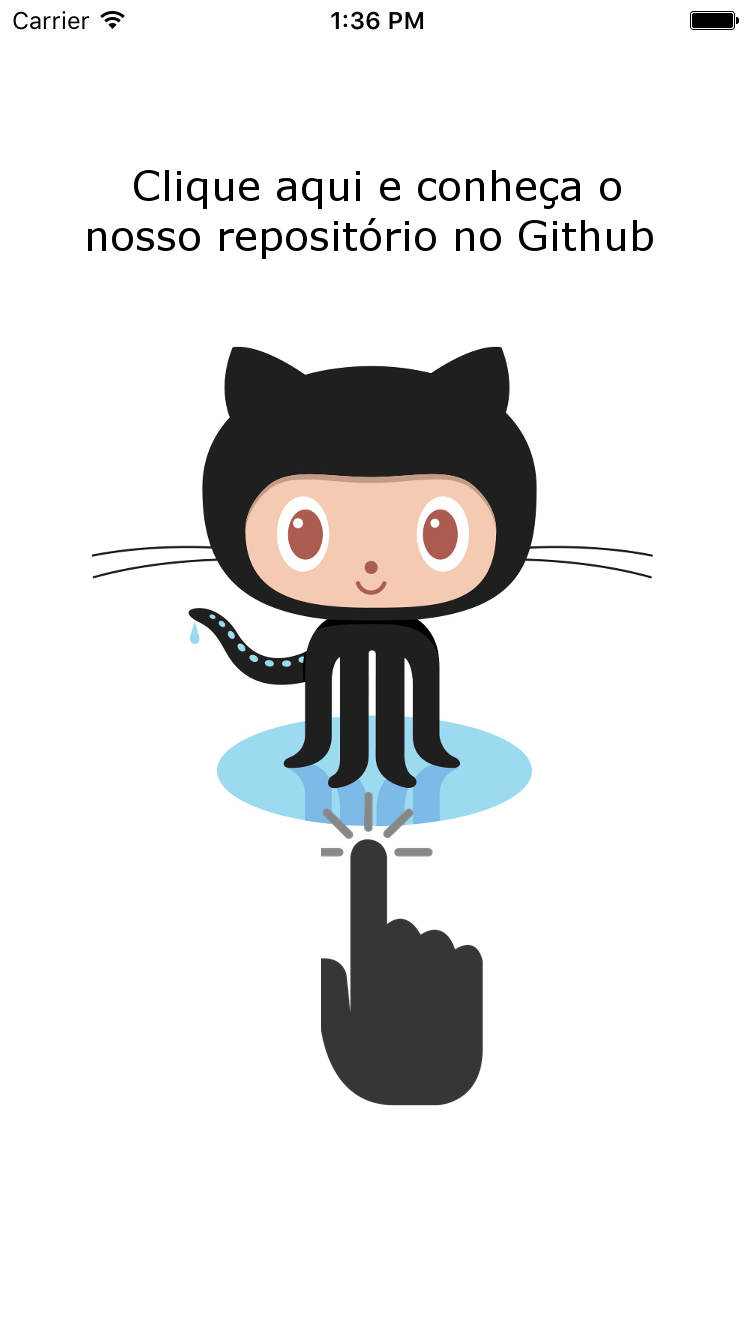
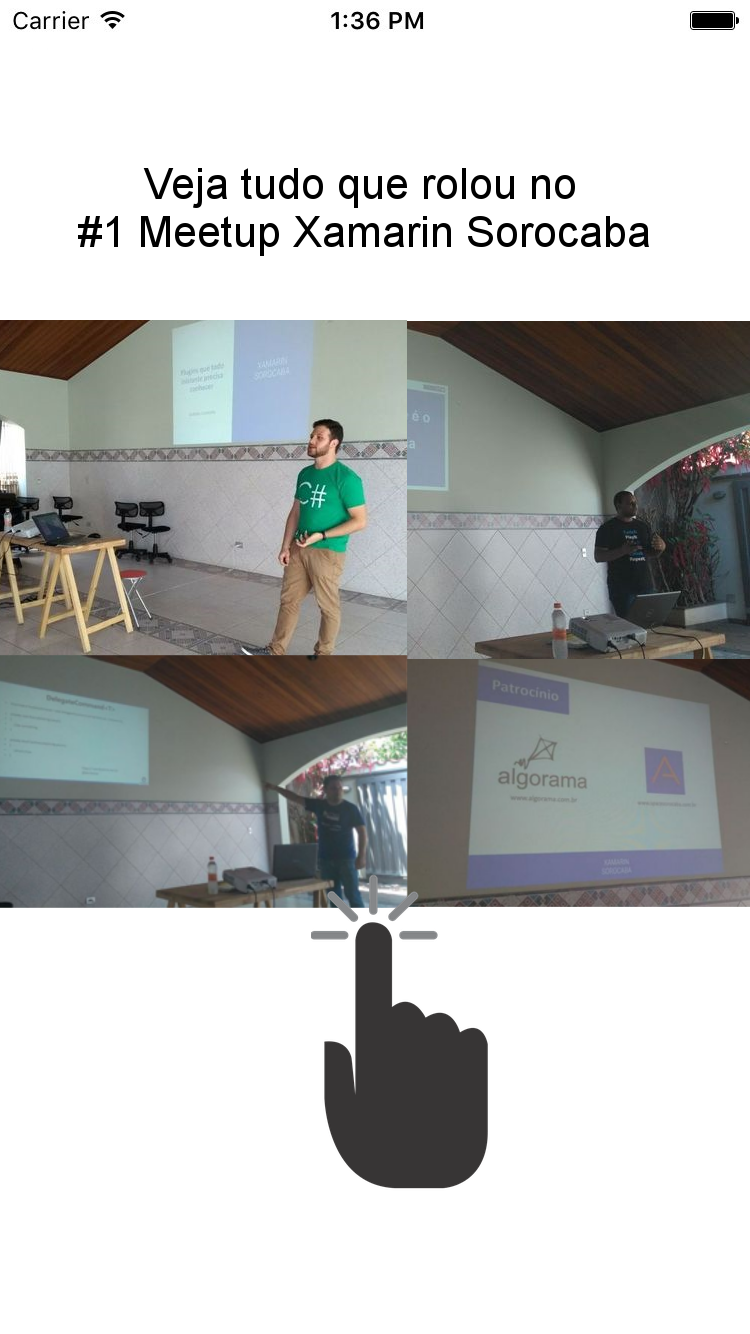
Confira o ultimo evento

diff --git a/index.html b/index.html
@@ -9,6 +9,8 @@
     <!-- Bootstrap 3-->
     <link href="css/bootstrap.min.css" rel="stylesheet" media="screen">
 		<link rel="stylesheet" href="https://cdnjs.cloudflare.com/ajax/libs/font-awesome/4.7.0/css/font-awesome.min.css">
+
+	
     <!-- Google Fonts -->
     <link href='http://fonts.googleapis.com/css?family=Source+Sans+Pro:200,300,400,600,700,900,200italic,300italic,400italic,600italic,700italic,900italic|Roboto+Condensed:300italic,400italic,700italic,400,300,700' rel='stylesheet' type='text/css'>
     <link href='http://fonts.googleapis.com/css?family=Roboto+Condensed:300italic,400italic,700italic,400,300,700' rel='stylesheet' type='text/css'>
@@ -62,18 +64,24 @@
 					    <!-- Indicators -->
 					    <ol class="carousel-indicators">
 					      <li data-target="#carousel-example-generic" data-slide-to="0" class="active"></li>
-					      <li data-target="#carousel-example-generic" data-slide-to="1"></li>
+						  <li data-target="#carousel-example-generic" data-slide-to="1"></li>
+					      <li data-target="#carousel-example-generic" data-slide-to="2"></li>
 					    </ol>
 					  
 					    <!-- Wrapper for slides -->
 					    <div class="carousel-inner">
 					      <div class="item active">
-					        <img src="img/screenshots/app-1.png" alt="App Screen 1">
-					      </div>
+					        	<img src="img/screenshots/app-1.png" alt="App Screen 1">
+						  </div>
 					      <div class="item">
-									<a href="https://github.com/Xamarin-Sorocaba/" target="_blank">
-					        	<img src="img/screenshots/app-2.png" alt="App Screen 2">
-									</a>
+							<a href="https://www.meetup.com/pt-BR/Xamarin-Sorocaba/events/244289875/" target="_blank">
+								<img src="img/screenshots/app-2.png" alt="App Screen 2">
+							</a>
+						  </div>
+					      <div class="item">
+							<a href="https://github.com/Xamarin-Sorocaba/" target="_blank">
+					        	<img src="img/screenshots/app-3.png" alt="App Screen 3">
+							</a>
 						  </div>
 
 					      
@@ -155,11 +163,14 @@
 	  
 	  
 	  <!-- Notícias 
-	      ================================================== -->
+		  ================================================== -->
+
+
 	  <section class="detail">
 		<div class="container">
 			<div class="col-md-12" style="margin-bottom: 20px;">
-					  <h1>Palestras do #1 Meetup Xamarin Sorocaba</h1>
+					  <h1>Palestras do #1 Meetup Xamarin Sorocaba </h1>
+					  <h4>25/11/17</h4>
 			</div>
 			<div class="row">
 				<div class="col-md-12">
@@ -173,7 +184,7 @@
 											<div class="col-sm-12 col-md-offset-1 col-md-6">
 													
 												<h1>Entendendo o que é o Xamarin e desenvolvendo sua primeira app</h1>
-												<h2>09:00h</h2>
+												<h2> </h2>
 												<h3 style="margin-top: 17px;">
 														Entenda o que é a plataforma Xamarin seus prós e contras (sim todas as tecnologias tem seus contras) e como iniciar o desenvolvimento de suas apps.
 												</h3>	
@@ -196,7 +207,7 @@
 										<div class="col-sm-12 col-md-offset-1 col-md-6">
 												
 											<h1>Plugins que todo iniciante precisa conhecer</h1>
-											<h2>10:20h</h2>
+											<h2> </h2>
 											<h3 style="margin-top: 40px;">
 													Vamos conversar sobre alguns plugins que todo desenvolvedor Xamarin inciante precisa ter em sua "Caixa de ferramentas".
 											</h3>	
@@ -214,28 +225,28 @@
 										</div>
 
 					      	</div>
-							</div>
+						</div>
 							
 							<div class="item">
-					      	<div class="row" >
-										<div class="col-sm-12 col-md-offset-1 col-md-6">
+								<div class="row" >
+											<div class="col-sm-12 col-md-offset-1 col-md-6">
+													
+												<h1>Xamarin.Forms. Aplicando MVVM com Prism</h1>
+												<h2> </h2>
+												<h3 style="margin-top: 40px;">
+														Vamos entender como utilizar MVVM o padrão de arquitetura mais recomendado para ser utilizado como Xamarin e como o Prism facilita a implementação.
+												</h3>	
 												
-											<h1>Xamarin.Forms. Aplicando MVVM com Prism</h1>
-											<h2>11:10h</h2>
-											<h3 style="margin-top: 40px;">
-													Vamos entender como utilizar MVVM o padrão de arquitetura mais recomendado para ser utilizado como Xamarin e como o Prism facilita a implementação.
-											</h3>	
-											
-											
-					      		</div>
-					      		<div class="col-sm-12 col-md-5">
-												<img class="fotoPalestrante" src="img/dorta_circulo.png" style="max-width: 200px;" />
-												<p style="text-align: justify;text-justify: inter-word;color:#333;">
-														Ricardo Dorta é CTO da KCMS. Ex-Microsoft MVP. Co-fundador da comunidade Monkey Nights, é palestrante em diversos dos principais eventos de tecnologia do Brasil. Foi arquiteto dos primeiros jogos brasileiros a serem publicados na Windows Store. Responsável pelo desenvolvimento e publicação de mais de 10 aplicativos corporativos criados com Xamarin.
-												</p>
-										</div>
+												
+									</div>
+									<div class="col-sm-12 col-md-5">
+													<img class="fotoPalestrante" src="img/dorta_circulo.png" style="max-width: 200px;" />
+													<p style="text-align: justify;text-justify: inter-word;color:#333;">
+															Ricardo Dorta é CTO da KCMS. Ex-Microsoft MVP. Co-fundador da comunidade Monkey Nights, é palestrante em diversos dos principais eventos de tecnologia do Brasil. Foi arquiteto dos primeiros jogos brasileiros a serem publicados na Windows Store. Responsável pelo desenvolvimento e publicação de mais de 10 aplicativos corporativos criados com Xamarin.
+													</p>
+											</div>
 
-					      	</div>
+								</div>
 							</div>
 					    <!--<div class="item">
 					    	<div class="row" >
@@ -263,6 +274,8 @@
 					</div>
 				</div>
 			</div>
+
+			
 		</div>
 	</section>
 	
@@ -375,6 +388,7 @@
     <script src="js/jquery.js"></script>
     <script src="js/bootstrap.min.js"></script>
     <script src="js/animatescroll.js"></script>
-    <script src="js/scripts.js"></script>
+	<script src="js/scripts.js"></script>
+
   	
 </html>
